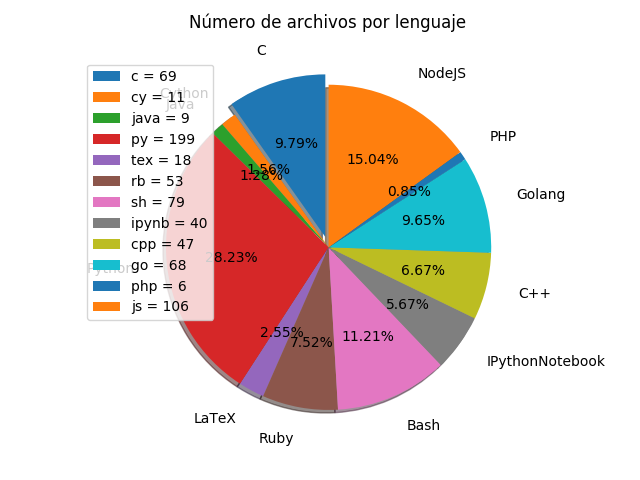
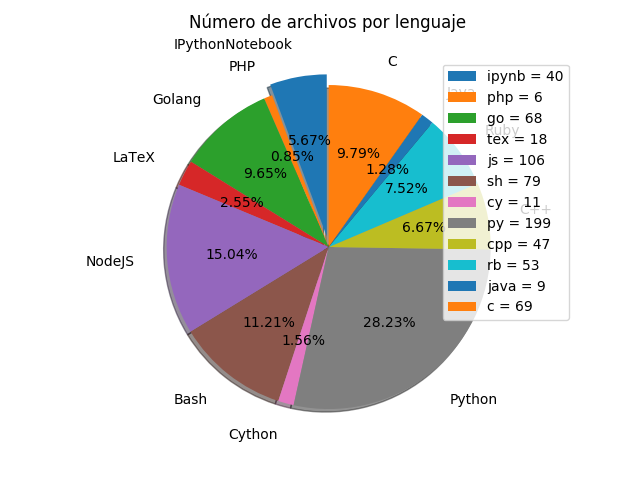
Refactorización del script de recopilación de número de archivos por lenguaje en el proyecto.

diff --git a/scripts/stats/backend_lang_files_perc_chart.py b/scripts/stats/backend_lang_files_perc_chart.py
@@ -1,75 +1,95 @@
-#!/usr/bin/env python3
 # -*- coding: utf-8 -*-
+
+"""
+Script que, dada una ruta de formato de archivo de imagen
+  pasada como primer parámetro, construye un gráfico de
+  torta donde muestra el número de archivos clasificados
+  por lenguaje que existen dentro de las carpetas `backend`
+  y `frontend` del proyecto y lo guarda en la ruta.
+"""
 
 import os
 import sys
 import json
-from subprocess import Popen, PIPE
-import shlex
-
+import subprocess
 
 import matplotlib
-if os.environ.get("DISPLAY", "") == "":
+if os.environ.get("DISPLAY", None) is None:
     matplotlib.use("Agg")
 import matplotlib.pyplot as plt
 
+# Porcentaje mínimo de archivos del total
+#   para que un lenguaje sea incluido en el gŕafico
+MIN_PERCENTAGE_TO_SHOW_LANGUAGE = 0.1
 
-"""
-Este script necesita de un una ruta como primer parámetro
-donde guardar el gráfico resultante
-"""
+def main():
+    # Obtenemos el número de archivos por cada lenguaje
+    process = subprocess.Popen(
+        ["bash", "scripts/stats/recopile_stats.sh"],
+        stdout=subprocess.PIPE,
+        stderr=subprocess.PIPE)
+    stdout, stderr = process.communicate()
+    stats_by_language = json.loads(stdout.decode("utf-8"))
 
-MIN_PERCENTAGE_TO_SHOW = 0.1
+    # Constuimos el mapa de etiquetas
+    labels_map = {
+        "py": "Python",
+        "ipynb": "IPythonNotebook",
+        "js": "NodeJS",
+        "rb": "Ruby",
+        "cpp": "C++",
+        "c": "C",
+        "sh": "Bash",
+        "tex": "LaTeX",
+        "cy": "Cython",
+        "go": "Golang",
+        "php": "PHP",
+        "java": "Java",
+    }
 
-# Obtenemos el número de archivos por cada lenguaje
-process = Popen(shlex.split("bash scripts/stats/recopile_stats.sh"), stdout=PIPE, stderr=PIPE)
-stdout, stderr = process.communicate()
-stats = json.loads(stdout.decode("utf-8"))
+    total = sum(stats_by_language.values())
 
-# Constuimos el mapa de etiquetas
-labels_map = {
-    "py": "Python",
-    "ipynb": "IPythonNotebook",
-    "js": "NodeJS",
-    "rb": "Ruby",
-    "cpp": "C++",
-    "c": "C",
-    "sh": "Bash",
-    "tex": "LaTeX",
-    "cy": "Cython",
-    "go": "Golang",
-    "php": "PHP",
-    "java": "Java",
-}
+    labels, sizes, explode = ([], [], [])
+    exploded = False
+    for lang, files in stats_by_language.items():
+        perc = 100/total*files
+        if perc > MIN_PERCENTAGE_TO_SHOW_LANGUAGE:
+            sizes.append(files)
+            labels.append(labels_map[lang])
+            if not exploded:  # Explode al azar
+                explode.append(0.1)
+                exploded = True
+            else:
+                explode.append(0)
 
-total = sum(stats.values())
+    def format_percentage(perc):
+        return "{perc:.2f}%".format(perc=perc)
 
-labels, sizes, explode = ([], [], [])
-exploded = False
-for lang, files in stats.items():
-    perc = 100/total*files
-    if perc > MIN_PERCENTAGE_TO_SHOW:
-        sizes.append(files)
-        labels.append(labels_map[lang])
-        if not exploded:  # Explode al azar
-            explode.append(0.1)
-            exploded = True
-        else:
-            explode.append(0)
+    fig, ax = plt.subplots()
+    ax.pie(
+        sizes,
+        explode=explode,
+        labels=labels,
+        autopct=format_percentage,
+        shadow=True,
+        startangle=90,
+        labeldistance=1.2,
+        radius=1.5,
+    )
+    fig.figsize = (16, 8)
 
-def pct(perc):
-    return "{perc:.2f}%".format(perc=perc)
+    # "equal" asegura que el gráfico pie se dibuja como un círculo
+    ax.axis('equal', bbox_inches='tight')
+    ax.set_title("Número de archivos por lenguaje\n")
 
-fig, ax = plt.subplots()
-ax.pie(sizes, explode=explode, labels=labels, autopct=pct,
-        shadow=True, startangle=90, labeldistance=1.2, radius=1.5,
-)
-fig.figsize = (16, 8)
+    labels = [
+        "%s = %d" % (ext, n_files) for ext, n_files \
+            in stats_by_language.items()
+    ]
+    legend = ax.legend(labels=labels)
 
-# "equal" asegura que el gráfico pie se dibuja como un círculo
-ax.axis('equal', bbox_inches='tight')
-ax.set_title("Número de archivos por lenguaje\n")
-legend = ax.legend(labels=["%s = %d" % (ext, f) for ext, f in stats.items()])
+    plt.savefig(sys.argv[1])
+    plt.close(fig)
 
-plt.savefig(sys.argv[1])
-plt.close(fig)
+if __name__ == "__main__":
+    main()

diff --git a/README.md b/README.md
@@ -186,8 +186,6 @@ ______________________________________
 
 ### Estadísticas del proyecto
 
-#### Número de archivos por lenguaje
-
 ![Número de archivos por lenguaje](https://raw.githubusercontent.com/mondeja/fullstack/master/metadata/assets/imgs/backend_lang_files_perc.png)
 
 ______________________________________
